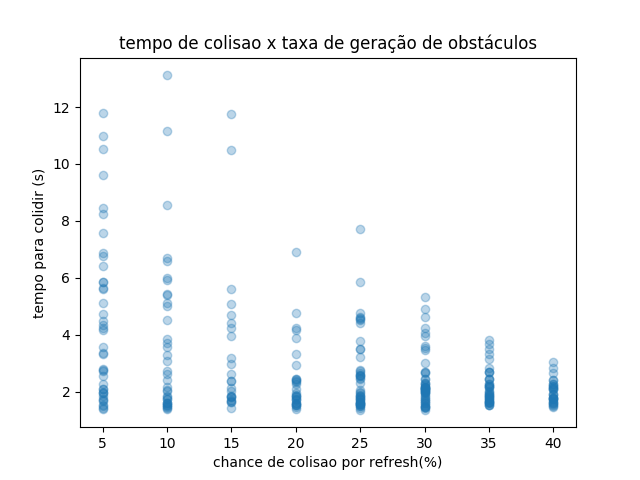
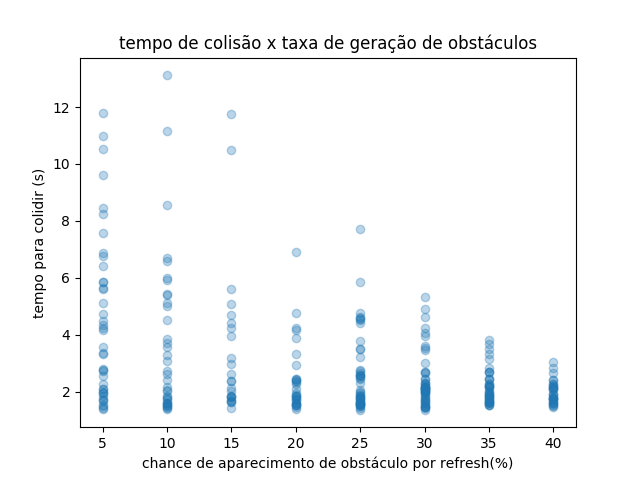
typo fixed in graph sub (colision per spawn chance)

Changed region(s): [[0.2188, 0.9375, 0.8125, 1.0]]

diff --git a/statistic/main_statistics.py b/statistic/main_statistics.py
@@ -60,7 +60,7 @@ def plot_spawn_time_metric():
             spt.append(round(float(data[1]), 3))
     plt.title("tempo de colisão x taxa de geração de obstáculos")
     plt.ylabel("tempo para colidir (s)")
-    plt.xlabel("chance de colisão por refresh(%)")
+    plt.xlabel("chance de aparecimento de obstáculo por refresh(%)")
     plt.scatter(spt, tal, alpha=0.3)
     plt.savefig("plots/spawnxcolisao")
 
@@ -150,6 +150,6 @@ def coefficients_correlations():
 if __name__ == '__main__':
     # histogram_coolision_plot()
     # plot_box_plot_time_alive()
-    # plot_spawn_time_metric()
+    plot_spawn_time_metric()
     # plot_proximity_threshold_metric()
-    coefficients_correlations()
+    #coefficients_correlations()
